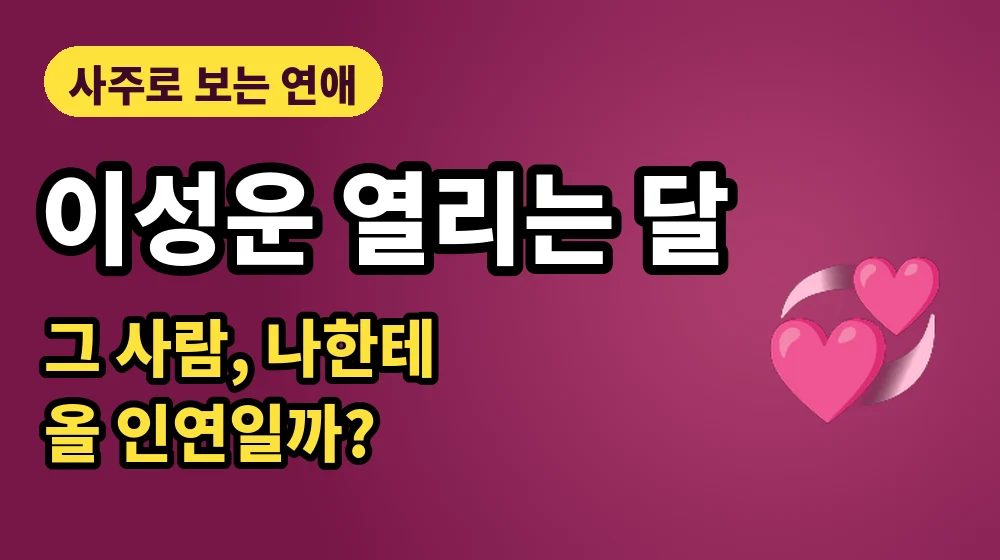
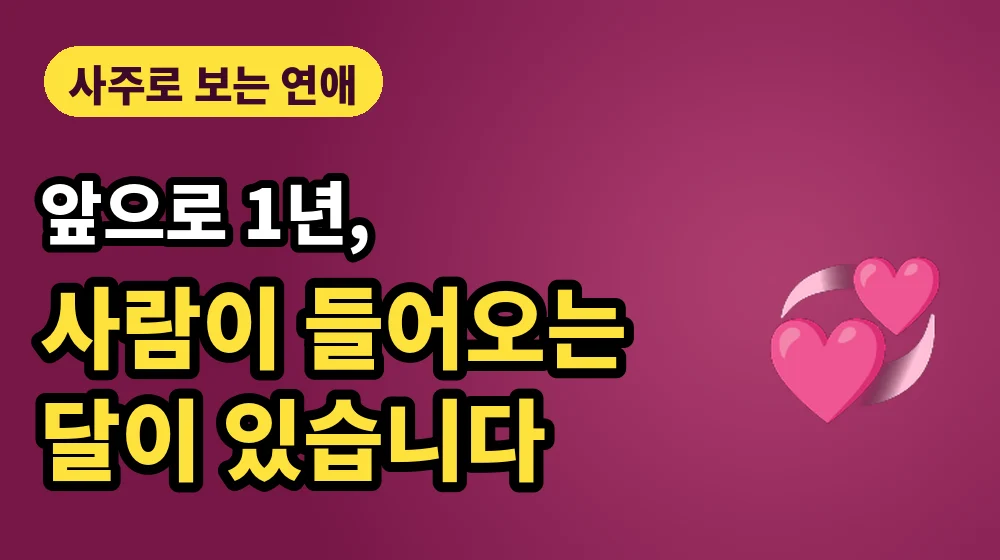
/go 후킹 메뉴판: 배너·버튼 전부 질문형 후킹 + 부제
Claude-Session: https://claude.ai/code/session_0121rW3WwMGdfyBenDuDhd5U

Changed region(s): [[0.031, 0.2732, 0.744, 0.8804]]

diff --git a/go.html b/go.html
@@ -27,7 +27,7 @@ a{color:inherit;text-decoration:none}
 .feat span{display:block;text-align:center;font-size:15.5px;margin-top:11px;padding:0 8px}
 .row{display:flex;align-items:center;min-height:76px;background:var(--btn);border-radius:40px;padding:8px 18px 8px 8px;margin-bottom:12px}
 .row .th{flex:0 0 60px;width:60px;height:60px;border-radius:50%;object-fit:cover;background:#fff;display:flex;align-items:center;justify-content:center;font-size:30px}
-.row b{flex:1;text-align:center;font-weight:500;font-size:15.5px;padding:0 6px 0 4px}
+.row .tx{flex:1;text-align:center;padding:0 6px 0 4px}.row b{display:block;font-size:15.5px;font-weight:700}.row small{display:block;font-size:12.5px;color:var(--sub);margin-top:1px}
 .feat:active,.row:active{transform:scale(.985)}
 footer{margin-top:26px;font-size:12px;color:var(--sub);text-align:center}
 </style>
@@ -39,13 +39,13 @@ footer{margin-top:26px;font-size:12px;color:var(--sub);text-align:center}
   <h1>내 운 사용설명서</h1>
   <p>생년월일만 넣으면 10초 만에 확인해요</p>
  </div>
- <a class="feat" href="/rich?utm_source=ig_profile&utm_content=rich"><img src="img/go-rich.webp?v=2" alt="내 사주 돈 들어올 자리"><span>💰 같은 월급인데 왜 나만 안 모일까?</span></a>
- <a class="feat" href="/love?utm_source=ig_profile&utm_content=love"><img src="img/go-love.webp?v=1" alt="이성운 열리는 달" loading="lazy"><span>💞 내 이성운이 열리는 달은 언제?</span></a>
- <a class="row" href="/?utm_source=ig_profile&utm_content=match#match"><img class="th" src="chars/seonhwa.webp" alt=""><b>그 사람이랑 나, 잘 맞을까?</b></a>
- <a class="row" href="/?utm_source=ig_profile&utm_content=rel#rel"><img class="th" src="chars/hawon.webp" alt=""><b>나는 왜 사람한테 유독 지칠까?</b></a>
- <a class="row" href="/luckyitem?utm_source=ig_profile&utm_content=lucky"><span class="th">🍀</span><b>10월 내 띠 다이소 행운템</b></a>
- <a class="row" href="/work?utm_source=ig_profile&utm_content=work"><img class="th" src="chars/doyun.webp" alt=""><b>지금 그만둬도 괜찮을까?</b></a>
- <a class="row" href="/?utm_source=ig_profile&utm_content=home"><span class="th">✨</span><b>내 성격·돈·연애, 6장으로 정리</b></a>
+ <a class="feat" href="/rich?utm_source=ig_profile&utm_content=rich"><img src="img/go-rich.webp?v=3" alt="돈이 들어오는 사람은 따로 있습니다"><span>💰 내 사주에서 돈 들어오는 자리 확인하기</span></a>
+ <a class="feat" href="/love?utm_source=ig_profile&utm_content=love"><img src="img/go-love.webp?v=2" alt="앞으로 1년, 사람이 들어오는 달이 있습니다" loading="lazy"><span>💗 내 이성운이 움직이는 시기 확인하기</span></a>
+ <a class="row" href="/?utm_source=ig_profile&utm_content=match#match"><img class="th" src="chars/seonhwa.webp" alt=""><span class="tx"><b>우리는 왜 이렇게 끌릴까?</b><small>두 사람의 궁합 확인하기</small></span></a>
+ <a class="row" href="/?utm_source=ig_profile&utm_content=rel#rel"><img class="th" src="chars/hawon.webp" alt=""><span class="tx"><b>나는 왜 사람한테 유독 지칠까?</b><small>내 관계 사용법 확인하기</small></span></a>
+ <a class="row" href="/luckyitem?utm_source=ig_profile&utm_content=lucky"><span class="th">🍀</span><span class="tx"><b>요즘 내 운에 필요한 건 따로 있습니다</b><small>내 띠 행운템 확인하기</small></span></a>
+ <a class="row" href="/work?utm_source=ig_profile&utm_content=work"><img class="th" src="chars/doyun.webp" alt=""><span class="tx"><b>지금 그만둬도 되는 때일까?</b><small>내 직업운 확인하기</small></span></a>
+ <a class="row" href="/?utm_source=ig_profile&utm_content=home"><span class="th">✨</span><span class="tx"><b>내 운을 한 번에 확인해보세요</b><small>사주 × MBTI로 보는 나</small></span></a>
  <footer>입력한 정보는 이 기기 안에서만 계산해요 · <a href="policy.html#privacy" style="text-decoration:underline">개인정보처리방침</a></footer>
 </main>
 </body>
